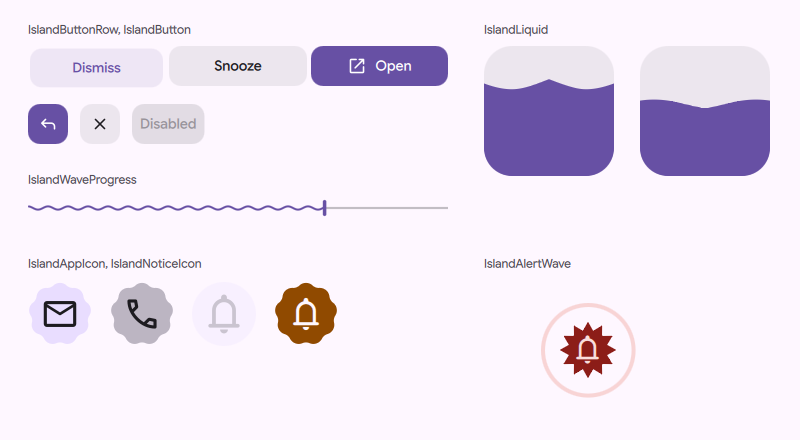
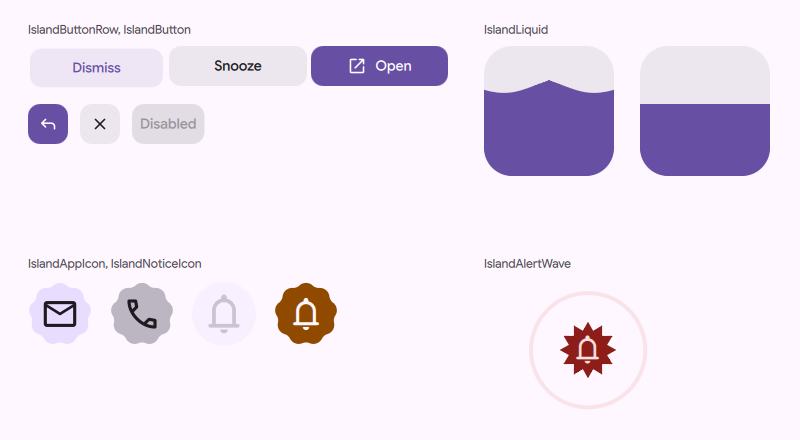
island: refresh screenshots and measurements

diff --git a/island/1-kit/LISEZMOI.md b/island/1-kit/LISEZMOI.md
@@ -1,10 +1,14 @@
 # Médias de la PR 1 « island: kit (motion rules, frame cadence, widgets) »
 
-Pointe `36a043958` (branche `island/1-kit`), base `origin/master` `88f168c54`. Tout est fait au banc (instance
-`pr123-media-kit`, mutter sans écran, niri imbriqué, HOME, XDG et bus isolés), avec le Theme réel de DMS, sur une scène
-de banc : un second quickshell lancé dans le banc, qui lit par liens symboliques le `quickshell/` de l'arbre testé (base
-ou tête). Rien n'est écrit dans les worktrees. Fond uni : `Theme.surface`, aucun fond d'écran, aucun chemin, aucun
-appareil ; textes et données fictifs.
+Pointe `6a58a5818` (branche `island/1-kit`), base `origin/master` `88f168c54`. Tout est fait au banc (mutter sans écran,
+niri imbriqué, HOME, XDG et bus isolés), avec le Theme réel de DMS, sur une scène de banc : un second quickshell lancé
+dans le banc, qui lit par liens symboliques le `quickshell/` de l'arbre testé (base ou tête). Rien n'est écrit dans les
+worktrees. Fond uni : `Theme.surface`, aucun fond d'écran, aucun chemin, aucun appareil ; textes et données fictifs.
+
+Les médias ont été pris une première fois sur `36a043958` (instance `pr123-media-kit`), puis la correction de la boucle
+(5 et 6/11) a changé le rendu du kit : `IslandWaveProgress` est retiré (aucun appelant sur la pile) et `IslandLiquid` n'a
+plus de vague vive (`wave`, son horloge et sa phase). Les médias qui montraient l'un ou l'autre sont refaits sur
+`6a58a5818` (instance `c123-media-kit`) ; les autres sont gardés, après contrôle (voir « Ce qui a changé »).
 
 ## Ce que la PR rend visible
 
@@ -15,7 +19,16 @@ Peu de choses : le kit n'a aucun appelant dans cette PR (ses consommateurs sont 
 2. les composants du dossier `Modules/DIsland/Kit/`, qui n'existent pas sur master (`git ls-tree` de la base : dossier
    absent), donc pas de capture « avant » pour eux : seulement « après », sur une scène de banc ;
 3. la cadence des ressorts de surface (`FrameCadence`, pas de GC d'1 ms) : aucun effet à l'écran, donc aucun média ; ses
-   mesures sont dans la perf du contrôleur, pas ici.
+   mesures sont dans `mesures.md`.
+
+## Ce qui a changé depuis la première prise (36a043958 vers 6a58a5818)
+
+| Changement du code | Effet sur le rendu | Médias |
+|---|---|---|
+| `IslandWaveProgress.qml` retiré | la progression en vague n'existe plus | `kit-vague-progression.gif` supprimé ; la scène de banc et les deux prises des widgets n'ont plus la rangée de progression |
+| `IslandLiquid.qml` : plus de vague vive (`wave`) | le front ne bouge que pendant que le ressort de remplissage bouge, puis reste plat ; le second liquide de la scène est donc au repos | `kit-liquide.gif`, `kit-ressort-*.gif`, `apres-widgets-*.png` refaits |
+| `Theme.qml` : `#FF9800` devient la constante `stockWarning` | aucun : même valeur, même test | `*-ton-avertissement-*.png` gardés ; scène rejouée sur la tête : mêmes rapports de contraste, écart de 2,2 (sombre) et 2,8 (clair) sur 65535 (RMSE) avec les prises gardées |
+| `IslandButton` (infobulle d'un libellé coupé, avertissement sans nom accessible), `IslandNoticeIcon` (initiale d'un message sur une forme d'alerte, `Loader`), `IslandAlertWave` (au moins un anneau, arrêt au mouvement réduit), `IslandDecorClock` et `IslandClock` (taux borné), `IslandKit.js` | aucun sur la scène : pas de libellé coupé, pas d'initiale sur une forme d'alerte, mêmes ressorts, mêmes anneaux | `kit-boutons-ressort.gif` et `kit-icones-alerte.gif` gardés : une nouvelle prise des mêmes plans donne un écart moyen de 410 et 525 sur 65535 (RMSE, image à image), du même ordre qu'un pas de mouvement (373 et 698 entre deux images voisines) |
 
 ## Les fichiers
 
@@ -25,27 +38,28 @@ Peu de choses : le kit n'a aucun appelant dans cette PR (ses consommateurs sont 
 | `apres-ton-avertissement-clair.png` | Tête, mode clair, même scène : ton `#904A00`, contraste 6,31 / 5,71 / 5,12 : 1 (AA), 680x400 | 41,9 Ko |
 | `avant-ton-avertissement-sombre.png` | Base, mode sombre, même scène : `#FF9800`, 8,63 / 7,58 / 5,70 : 1, 680x400 | 41,5 Ko |
 | `apres-ton-avertissement-sombre.png` | Tête, mode sombre : identique à l'avant (même octets), le sombre ne change pas, 680x400 | 41,5 Ko |
-| `apres-widgets-clair.png` | Tête, mode clair : les widgets du kit sur une scène (rangée de boutons, boutons icône seule et désactivé, progression en vague, deux liquides, icônes d'appli et de notification, onde d'alerte), prise à 350 ms de la boucle (un bouton enfoncé, le liquide qui monte, un anneau sorti), 800x440 | 40,5 Ko |
-| `apres-widgets-sombre.png` | Idem en mode sombre, 800x440 | 43,4 Ko |
-| `kit-ressort-sombre.gif` | La scène entière en mouvement, mode sombre : trois boutons enfoncés l'un après l'autre sur le ressort CELL, liquide qui monte et retombe sur le ressort FILL (avec la vague vive du second), progression en vague, icône d'appli qui change de forme puis revient, anneaux de l'onde d'alerte (deux tours). 800x440, 88 images, 25 i/s, 3,5 s | 228,5 Ko |
-| `kit-ressort-clair.gif` | Idem en mode clair, 800x440 | 193,4 Ko |
-| `kit-boutons-ressort.gif` | Gros plan (x2) des boutons : l'enfoncement au ressort (translation et échelle) et la teinte d'état, 960x272 | 193,3 Ko |
-| `kit-liquide.gif` | Gros plan (x2) des deux liquides : la montée avec dépassement et clapotis, puis la retombée, et la vague vive qui ne s'aplatit jamais, 636x360 | 211,8 Ko |
-| `kit-icones-alerte.gif` | Gros plan des icônes d'appli et de notification (changement de forme avec impulsion) et de l'onde d'alerte (anneaux de l'alerte critique, deux tours), 800x190 | 84,5 Ko |
-| `kit-vague-progression.gif` | Gros plan (x2) de `IslandWaveProgress` : la vague qui dérive et la valeur qui monte et descend, 940x120 | 171,3 Ko |
+| `apres-widgets-clair.png` | Tête, mode clair : les widgets du kit sur une scène (rangée de boutons, boutons icône seule et désactivé, deux liquides dont un au repos, icônes d'appli et de notification, onde d'alerte), prise à 350 ms de la boucle (un bouton enfoncé, le liquide qui monte, un anneau sorti), 800x440 | 37,2 Ko |
+| `apres-widgets-sombre.png` | Idem en mode sombre, 800x440 | 39,3 Ko |
+| `kit-ressort-sombre.gif` | La scène entière en mouvement, mode sombre : trois boutons enfoncés l'un après l'autre sur le ressort CELL, liquide qui monte et retombe sur le ressort FILL (l'autre liquide reste plat), icône d'appli qui change de forme puis revient, anneaux de l'onde d'alerte (deux tours), 800x440 | 147,4 Ko |
+| `kit-ressort-clair.gif` | Idem en mode clair, 800x440 | 136,1 Ko |
+| `kit-boutons-ressort.gif` | Gros plan (x2) des boutons : l'enfoncement au ressort (translation et échelle) et la teinte d'état, 960x272 (première prise, gardée) | 193,3 Ko |
+| `kit-liquide.gif` | Gros plan (x2) des deux liquides : à gauche la montée avec dépassement et clapotis, puis la retombée, à droite un liquide au repos qui reste plat, 636x360 | 85,0 Ko |
+| `kit-icones-alerte.gif` | Gros plan des icônes d'appli et de notification (changement de forme avec impulsion) et de l'onde d'alerte (anneaux de l'alerte critique, deux tours), 800x190 (première prise, gardée) | 84,5 Ko |
 
-Tous les GIF : 88 images à 25 i/s, 3,52 s, palette générée à partir des images, boucle infinie, moins de 250 Ko chacun
-(limite : 8 Mo). Les six GIF sortent de deux enregistrements au banc (clair et sombre), les gros plans sont des
-découpes du sombre. La boucle est faite pour fermer : les ressorts sont posés au début et à la fin, la vague dérive de
-1,8 rad/s donc fait un tour en 3491 ms, la vague vive du second liquide aussi. Contrôle (RMSE entre la dernière et la
-première image, contre deux images voisines) : au plus 2 fois l'écart de deux images voisines (nul ou presque pour les boutons et les icônes), sauf le liquide
-(environ 4 fois, 2379 sur 65535 : la phase de la vague vive n'est poussée qu'à la cadence du kit, d'où un écart de
-sous-pixel).
+Tous les GIF : 88 images à 25 i/s, 3,52 s, palette générée à partir des images, boucle infinie, moins de 200 Ko chacun
+(limite : 8 Mo). Les cinq GIF sortent de deux enregistrements au banc (clair et sombre), les gros plans sont des
+découpes du sombre. La boucle dure 3 491 ms comme à la première prise (le temps d'un tour de l'ancienne vague, gardé
+pour que les gros plans gardés restent calés sur la scène) et se ferme : les ressorts sont posés au début et à la fin.
+Contrôle (RMSE sur 65535 entre la dernière et la première image) : `kit-ressort-sombre.gif` 21,5, `kit-ressort-clair.gif`
+0,5, `kit-liquide.gif` 3,7, contre 67,3, 35,7 et 0 entre deux images voisines au milieu de la boucle (le liquide y est
+plat) : un saut de boucle ne se voit pas. Pour les deux gros plans gardés, le contrôle de la première prise (au plus 2
+fois l'écart de deux images voisines, nul ou presque pour les boutons et les icônes) reste le leur.
 
 ## À savoir pour la description
 
-- Contraste du ton clair, mesuré par la scène (texte contre le fond nu) : 6,31 sur `surface`, 5,71 sur
-  `surfaceContainer`, 5,12 sur `surfaceContainerHighest`, ce qui tient la promesse du commit (au moins 4,9 : 1).
+- Contraste du ton clair, mesuré par la scène (texte contre le fond nu), rejoué sur `6a58a5818` avec les mêmes chiffres :
+  6,31 sur `surface`, 5,71 sur `surfaceContainer`, 5,12 sur `surfaceContainerHighest`, ce qui tient la promesse du commit
+  (au moins 4,9 : 1).
 - Avec le voile de 12 % de `Theme.warning` que `SettingsNoteRow` pose sous son texte (`warningHover`), le même texte
   tombe à 5,28 / 4,81 / **4,34** : 1 sur ces trois fonds en clair, donc sous AA sur `surfaceContainerHighest` pour ce
   consommateur. Hors de ce que promet le commit (fond nu), mais à ne pas laisser dire « AA partout » dans la
@@ -55,26 +69,25 @@ sous-pixel).
   d'aujourd'hui, comme pour les contrôles de perf) : seul le binaire `dms` est concerné, le QML des deux arbres est celui
   de la base et de la tête.
 
-## Vérification (P7-SCHEMA-kit)
+## Vérification (C4-MEDIAS-kit)
 
 - Aucun fond d'écran (fond uni `Theme.surface`), aucun chemin, aucun nom d'utilisateur, de machine ni d'écran dans les
-  octets des fichiers ni à l'image (planche-contact de chaque GIF regardée) : `pr123-media-verif.py`. Ce LISEZMOI citait
-  des chemins absolus : remplacés par des chemins relatifs à `~/Dev`.
-- Tous les PNG et GIF se décodent jusqu'à la dernière image ; GIF : 88 images, 3 520 ms, boucle infinie, 85 à 229 Ko
+  octets des fichiers ni à l'image (planche-contact de chaque GIF regardée) : `pr123-media-verif.py` sur le dossier,
+  « OK ». Les chemins du présent fichier sont relatifs à `~/Dev`.
+- Tous les PNG et GIF se décodent jusqu'à la dernière image ; GIF : 88 images, 3 520 ms, boucle infinie, 84 à 193 Ko
   (limite 8 Mo).
-- `kit-liquide.gif` refait : l'étiquette « IslandLiquid » était coupée en haut et le cadre décentré ; recadré
-  (318x180 à 468,12, x2) depuis `kit-ressort-sombre.gif`, les films du banc n'existant plus
-  (`pr123-media-kit-recadre.sh`) ; `pr123-media-kit-gifs.sh` porte le nouveau cadre.
-- Symétrie (norme de `symetrie.py`, encre centrée dans sa forme à 1 px) sur les deux captures des widgets : 11 formes
-  sur 11 en sombre et en clair (boutons, icônes d'appli et de notification, onde d'alerte) ; les liquides et la vague
-  sont hors norme (fronts en mouvement). En clair, trois tuiles pâles (Dismiss enfoncé, courrier, notification
-  désactivée) sont sous le seuil de forme de `symetrie.py` : mesurées avec un seuil plus fin
-  (`pr123-media-kit-symetrie.py`). Aucune bulle dans cette PR.
+- Symétrie (norme de `symetrie.py`, encre centrée dans sa forme à 1 px, `pr123-media-kit-symetrie.py`) sur les deux
+  prises des widgets de la tête : 11 formes sur 11 en sombre et en clair (boutons, icônes d'appli et de notification,
+  onde d'alerte) ; les liquides sont hors norme (front en mouvement). En clair, trois tuiles pâles (Dismiss enfoncé,
+  courrier, notification désactivée) sont sous le seuil de forme de `symetrie.py` : mesurées avec un seuil plus fin.
+  Aucune bulle dans cette PR.
 
 ## Refaire
 
-Scripts dans `page-niri/outils/ile/` (sous `~/Dev`), dans l'ordre : `pr123-media-kit-arbres.sh` (arbres base et
-tête, `git archive`), `pr123-media-kit-banc.sh head|base start|stop`, `pr123-media-kit-stills.sh head|base`
-(PNG), `pr123-media-kit-run.sh head widgets dark|light film <dossier>` puis `pr123-media-kit-gifs.sh` (GIF),
-`pr123-media-kit-boucle.sh` et `pr123-media-kit-planche.sh` (contrôles de boucle et planche-contact). Les scènes sont
-`pr123-media-kit-tone.qml` et `pr123-media-kit-widgets.qml`.
+Scripts dans `page-niri/outils/ile/` (sous `~/Dev`), dans l'ordre : `c123-media-kit-gen.sh` (écrit les `c123-media-kit-*`
+à partir des `pr123-media-kit-*`, une fois), `c123-media-kit-arbres.sh` (copie de la tête par `git archive`),
+`c123-media-kit-banc.sh head start|stop`, `c123-media-kit-run.sh head widgets dark|light still|film <sortie> [ms]` (les
+PNG des widgets et les films), `c123-media-kit-gif.sh` ou `c123-media-kit-gifs.sh` (GIF), `c123-media-kit-boucle.sh` et
+`c123-media-kit-planche.sh` (contrôles de boucle et planche-contact), `c123-media-kit-compare.sh` (deux GIF d'une même
+scène, image par image). La scène des widgets est `c123-media-kit-widgets.qml` (sans progression ni vague vive) ; celle
+du ton, `c123-media-kit-tone.qml`. Les `pr123-media-kit-*` refont la première prise sur `36a043958` (base et tête).

diff --git a/island/2-api/LISEZMOI.md b/island/2-api/LISEZMOI.md
@@ -4,8 +4,9 @@ Tout est pris au banc (instance `pr123-media-api`, écran virtuel 1280x720, fond
 barre réduite au lanceur, aux espaces de travail et à deux boutons, aucun appareil). Cadrage : la bande de l'île, agrandie
 deux fois pour les PNG.
 
-- **Avant** : base `island/1-kit` (36a043958), la PR en moins.
-- **Après** : tête `island/2-api` (b302f1df6).
+- **Avant** : base `island/1-kit`, la PR en moins. Prise sur 36a043958 ; la base est maintenant 6a58a5818 (voir
+  « Mise à jour du 6/11 » : rien n'a changé à l'image).
+- **Après** : tête `island/2-api`. Prise sur b302f1df6 ; la tête est maintenant b222553ef (idem).
 - Ce que la PR rend visible : un script (ou un plugin) montre une activité sur l'île avec `dms ipc call island activity`,
   la met à jour, la termine. Avant, l'appel est refusé et l'île reste sur son horloge.
 
@@ -40,9 +41,33 @@ Tous les GIF font moins de 200 Ko (limite : 8 Mo) ; le dossier entier fait envir
 - Plusieurs écrans (`activityOn`, écran `*`), la priorité alert > live > glance et le délai d'une activité « glance » :
   couverts par les tests de la PR, pas filmés.
 
+## Mise à jour du 6/11 (C4-MEDIAS-api, boucle de correction)
+
+Depuis les captures du 5/11, la PR a été corrigée (pointe `b302f1df6` devenue `b222553ef`, base du kit `36a043958`
+devenue `6a58a5818`) : le diff touche 32 fichiers hors tests, dont les faces prêtes (`ReadyActivityCompact`,
+`ReadyActivityExpanded`, `ReadyActivityRing`), le kit (`IslandAlertWave`, `IslandButton`, `IslandNoticeIcon`,
+`IslandAppIcon`) et la nouvelle `IslandPluginActivity.qml`. Avant de refaire quoi que ce soit, le rendu a été comparé à la
+nouvelle pointe, au banc `c123-media-api` (mêmes réglages : fond uni neutre, 1280x720, aucun appareil) :
+
+- Les 8 PNG de l'après, refaits à neuf puis comparés pixel à pixel aux fichiers du dossier : écart de 1 à 2 sur 255 sur
+  quelques pixels (lissage), rien d'autre.
+- Les 4 GIF, refilmés à neuf puis comparés image à image (au début, à 10, 30, 50, 70, 90 % et à la fin) : même nombre
+  d'images (199 contre 199 en sombre, 201 contre 199 en clair, 132 contre 132 pour les deux alertes), mêmes scènes. Les
+  seules différences sont l'heure de l'horloge au repos (celle du banc) et l'avancement de l'anneau à un instant donné
+  (minutage de la prise). Boucle propre et animés, comme avant.
+- L'avant (île sur son horloge) : entre `36a043958` et `6a58a5818` le kit ne change que des fichiers de `Kit/`, des
+  calculs (`IslandKit.js`, `IslandClock.js`, `FrameCadence.js`), un nom de constante dans `Theme.qml` et des
+  commentaires ; aucun fichier de l'île ne se sert encore des composants du kit sans la PR 2, donc l'horloge au repos ne
+  change pas. Pas refait.
+- Conclusion : aucune capture ni aucun GIF remplacé, les fichiers de ce dossier restent ceux du 5/11 et valent pour la
+  nouvelle pointe. Les refaits de contrôle ne sont pas gardés.
+
 ## Reproduire
 
-Scripts dans `page-niri/outils/ile/` (préfixe `pr123-media-api-`) :
+Scripts dans `page-niri/outils/ile/` (préfixe `pr123-media-api-`). Le 6/11, les mêmes scripts sous l'instance
+`c123-media-api` (préfixe `c123-media-api-`, copies faites par `c123-media-api-copie.sh`), la comparaison des GIF par
+`c123-media-api-gifcmp.sh <ancien> <nouveau> <dossier>` et le contrôle des données et des tailles par
+`c123-media-api-prive.sh <dossier média> <dossier de travail>` :
 
 | Script | Rôle |
 |---|---|
@@ -57,9 +82,21 @@ Scripts dans `page-niri/outils/ile/` (préfixe `pr123-media-api-`) :
 ## Schéma et mesures
 
 - `schema.md` : deux schémas Mermaid (chemin d'une activité, vie d'une activité de script), chaque nœud relié au code.
-- `mesures.md` : processeur, mémoire, démarrage, poids, tests et porte ; temps par image et allocations non mesurés.
+  Relevé sur `b302f1df6` le 5/11, puis de nouveau sur `b222553ef` le 6/11 (C4-TEXTE-api) : toutes les lignes citées ont
+  été recomptées sur la pointe (`beginPluginActivity` est devenu `IslandPluginActivity.qml:40-63`), deux cases ajoutées
+  (face du shell vide retirée par `dropIfEmpty`, tenue d'arrivée de 5 s d'une barre cachée) ; les deux schémas sont
+  les mêmes que dans `description.en.md` et `description.fr.md`, vérifiés par `pr123-mermaid-check.mjs`.
+- `mesures.md` : remis à jour le 6/11 depuis la fiche perf finale (90/100, `b222553ef`) : processeur, mémoire,
+  démarrage, poids, tests et porte ; temps de rendu par image et allocations mesurés sur la tête seule, au banc (62
+  images par seconde), jamais à 240 Hz.
 
-## Vérification (P7-SCHEMA-api, 5/11)
+## Vérification (P7-SCHEMA-api, 5/11 ; refaite le 6/11)
+
+Refaite le 6/11 sur ce dossier et sur les captures et GIF neufs de `b222553ef` (`pr123-schema-api-verif.py` et
+`c123-media-api-prive.sh`) : mêmes tailles (le plus gros GIF : 170 Ko, dossier entier environ 0,7 Mo, la limite est de 8 Mo),
+mêmes boucles propres, aucun chemin, nom d'utilisateur ni nom de machine dans les textes, les octets et les métadonnées,
+et les quatre coins de chaque PNG et de chaque image de GIF sont les deux fonds unis du banc (aucun fond d'écran). Les
+mesures de symétrie ci-dessous sont les mêmes sur les captures neuves.
 
 - Tailles : tout sous 8 Mo (le plus gros GIF : 170 Ko). GIF : boucle propre (première image = dernière) et animés
   tous les quatre ; images à 10, 50 et 90 % regardées, lisibles.
@@ -70,8 +107,8 @@ Scripts dans `page-niri/outils/ile/` (préfixe `pr123-media-api-`) :
   rien (même géométrie qu'en sombre).
   - Bulle compacte live et les quatre accents : gauche/droite à 1 px près (43/44 à 1x), haut/bas égaux. OK.
   - Feuille d'alerte : gauche/droite 12/12 à 1x, haut/bas 15/12. L'icône sans progression garde la case de l'anneau
-    (`ReadyActivityRing.qml:19-25`), son glyphe commence 3 px plus bas que la marge du bas des boutons. Écart de code,
-    pas de capture : à corriger ou à dire dans « Known limits ».
+    (`ReadyActivityRing.qml:21-27`, `ringInset`), son glyphe commence 3 px plus bas que la marge du bas des boutons. Écart de code,
+    pas de capture : à corriger ou à dire dans « Known limits ». Toujours là à `b222553ef` (30/24 à 2x sur la capture neuve).
   - Feuille live : gauche/droite 9/12 et haut/bas 12/9 à 1x, dus à l'anneau de focus clavier du premier bouton (voulu
     sur cette capture), qui déborde de 3 px ; sous l'anneau, le bouton tombe aux mêmes marges que ceux de la feuille
     d'alerte (lu sur l'image, l'outil ne sait pas retirer l'anneau).

diff --git a/island/3-bulles/LISEZMOI.md b/island/3-bulles/LISEZMOI.md
@@ -1,6 +1,14 @@
 # Médias de la PR 3 « island: arrival, wing, cards, tiles, notifications and plugin activities »
 
-Captures et GIF des bulles, faits au banc seulement (instance `pr123-media-bulles`), le 5/11. Base : `island/2-api` (b302f1df6), tête : `island/3-bubbles` (130fc3ad1).
+Captures et GIF des bulles, faits au banc seulement (instance `pr123-media-bulles` le 5/11, `c123-media-bulles` le 6/11). Pointes actuelles : base `island/2-api` (b222553ef), tête `island/3-bubbles` (0463985bd).
+
+## Mise à jour du 6/11 (corrections des PR 1, 2 et 3)
+
+Les corrections ont déplacé les pointes (base b302f1df6 vers b222553ef, tête 130fc3ad1 vers 0463985bd). Toutes les scènes ont été rejouées au banc `c123-media-bulles` (mêmes réglages, fond uni neutre, noms fictifs), la tête puis la base, thèmes clair et sombre, et comparées aux médias du 5/11 :
+
+- **Images fixes (24)** : identiques pixel à pixel (tolérance de 3 %, relevés de processeur et de mémoire de la barre masqués), sauf ce qui vit seul à l'instant de la prise : la barre de progression de la notification, le sable de l'alerte du plugin, l'anneau de focus du champ de recherche du lanceur sur la tuile sombre. Elles sont gardées telles quelles.
+- **GIF de l'arrivée, de l'aile, de la carte, de la notification et du plugin (10)** : même mouvement, image par image, aux quelques images près d'un départ de commande (décalage de 0 à 3 images). Gardés tels quels.
+- **GIF de la tuile (2)** : la bulle devient tuile en une chorégraphie plus courte (le mouvement de la bulle vers la tuile dure environ 0,45 s au lieu de 0,85 s, sans l'ondulation de la version précédente). Refaits sur la tête 0463985bd, thèmes sombre et clair ; ce sont les seuls fichiers changés.
 
 ## Comment ils ont été faits
 
@@ -39,8 +47,8 @@ La base a déjà la face d'activité de l'API et une notification en face compac
 | `tuile-apres-sombre.png` | Tuile, après, thème sombre : L'île descend sous le lanceur et la bulle devient une tuile verticale à côté de lui ; à la fermeture du lanceur la tuile se range. (1280x340) | 49 Ko |
 | `tuile-avant-clair.png` | Tuile, avant (base `island/2-api`), thème clair : Le lanceur s'ouvre seul, aucune bulle ni tuile à côté. (1280x340) | 47 Ko |
 | `tuile-avant-sombre.png` | Tuile, avant (base `island/2-api`), thème sombre : Le lanceur s'ouvre seul, aucune bulle ni tuile à côté. (1280x340) | 47 Ko |
-| `tuile-clair.gif` | Tuile, GIF, thème clair : Le lanceur s'ouvre pendant que des bulles sont en aile (« Tea » et « Pasta »). L'île descend sous le lanceur et la bulle devient une tuile verticale à côté de lui ; à la fermeture du lanceur la tuile se range. (760x340) | 271 Ko |
-| `tuile-sombre.gif` | Tuile, GIF, thème sombre : Le lanceur s'ouvre pendant que des bulles sont en aile (« Tea » et « Pasta »). L'île descend sous le lanceur et la bulle devient une tuile verticale à côté de lui ; à la fermeture du lanceur la tuile se range. (760x340) | 254 Ko |
+| `tuile-clair.gif` | Tuile, GIF, thème clair : Le lanceur s'ouvre pendant que des bulles sont en aile (« Tea » et « Pasta »). L'île descend sous le lanceur et la bulle devient une tuile verticale à côté de lui ; à la fermeture du lanceur la tuile se range. (760x340) | 248 Ko |
+| `tuile-sombre.gif` | Tuile, GIF, thème sombre : Le lanceur s'ouvre pendant que des bulles sont en aile (« Tea » et « Pasta »). L'île descend sous le lanceur et la bulle devient une tuile verticale à côté de lui ; à la fermeture du lanceur la tuile se range. (760x340) | 231 Ko |
 | `notif-apres-clair.png` | Notification, après, thème clair : Elle arrive comme une carte courte dans l'île (titre et texte), puis se réduit en face compacte, puis l'île reprend l'horloge. (1280x250) | 20 Ko |
 | `notif-apres-sombre.png` | Notification, après, thème sombre : Elle arrive comme une carte courte dans l'île (titre et texte), puis se réduit en face compacte, puis l'île reprend l'horloge. (1280x250) | 19 Ko |
 | `notif-avant-clair.png` | Notification, avant (base `island/2-api`), thème clair : L'île ne montre que la face compacte (application et titre), sans l'arrivée en carte. (1280x250) | 16 Ko |
@@ -55,6 +63,12 @@ La base a déjà la face d'activité de l'API et une notification en face compac
 | `plugin-sombre.gif` | Activité de plugin, GIF, thème sombre : `request live` (« Tea »), puis `request alert` (« Pasta » avec son sable), puis `release`, retour à l'horloge. (640x370) | 90 Ko |
 
 Total : 36 fichiers, 3.5 Mo. Chaque GIF fait moins de 8 Mo (le plus gros : 439 Ko), de 3,5 à 8 secondes, 25 images par seconde.
+
+## Vérifications du 6/11
+
+- Aucun fond d'écran, chemin ni nom personnel : fond uni (un PNG d'une seule couleur écrit dans le HOME du banc), applications de DMS seules dans le lanceur, noms fictifs. Recherche, dans les octets des fichiers de ce dossier, d'un chemin de dossier personnel, du nom du propriétaire et d'un dossier de session : aucune.
+- Symétrie (`symetrie.py`, tolérance de 1 px) : la pilule de l'aile (encre à 2 px de chaque bord), l'icône de notification (8 et 9 px à gauche et à droite, 6 et 7 px en haut et en bas) et la tuile (icône à 10 px de chaque côté), en clair et en sombre : centrées. Le haut et le bas de la tuile ne sont pas jugés : l'icône est en tête et le point en pied, par construction.
+- GIF : 12 fichiers, tous sous 8 Mo, 25 images par seconde, boucle infinie ; première et dernière image identiques (à un pixel près pour la tuile sombre) ; chaque film refait tient dans la même minute, pour que l'horloge de l'île ne change pas entre la première et la dernière image.
 
 ## Reste à savoir
 

diff --git a/island/0-dux/LISEZMOI.md b/island/0-dux/LISEZMOI.md
@@ -4,6 +4,8 @@ PR 0 « loading indicator (Material shapes) » : branche `island/common`, tête 
 
 Ce que la PR change pour qui regarde : `DLoadingIndicator` laisse l'appelant choisir ses formes (`shapes`, noms du catalogue ou rayons polaires), et piloter lui-même le morphing (`fromShape`, `toShape`, `morph`, `angle` avec `running: false`). Le rendu par défaut ne change pas.
 
+Revu le 6/11 (étape C4 de la boucle de correction) : la tête `island/common` est toujours `2a60fbc`, aucun commit depuis la prise des médias. Les 4 planches et les 4 GIF sont donc inchangés et valides (aucune nouvelle capture). Contrôles refaits : aucune chaîne personnelle (chemin, nom, fond d'écran) dans les images ni dans les textes ; fond uni, formes seules ; GIF de 119 à 196 Ko, bien sous 8 Mo ; `symetrie.py` sur la forme ronde de la planche ne trouve aucune icône à mesurer (la PR 0 ne dessine ni bulle, ni pastille, ni face de l'île).
+
 ## Fichiers
 
 | Fichier | Ce qu'il montre | Taille |
